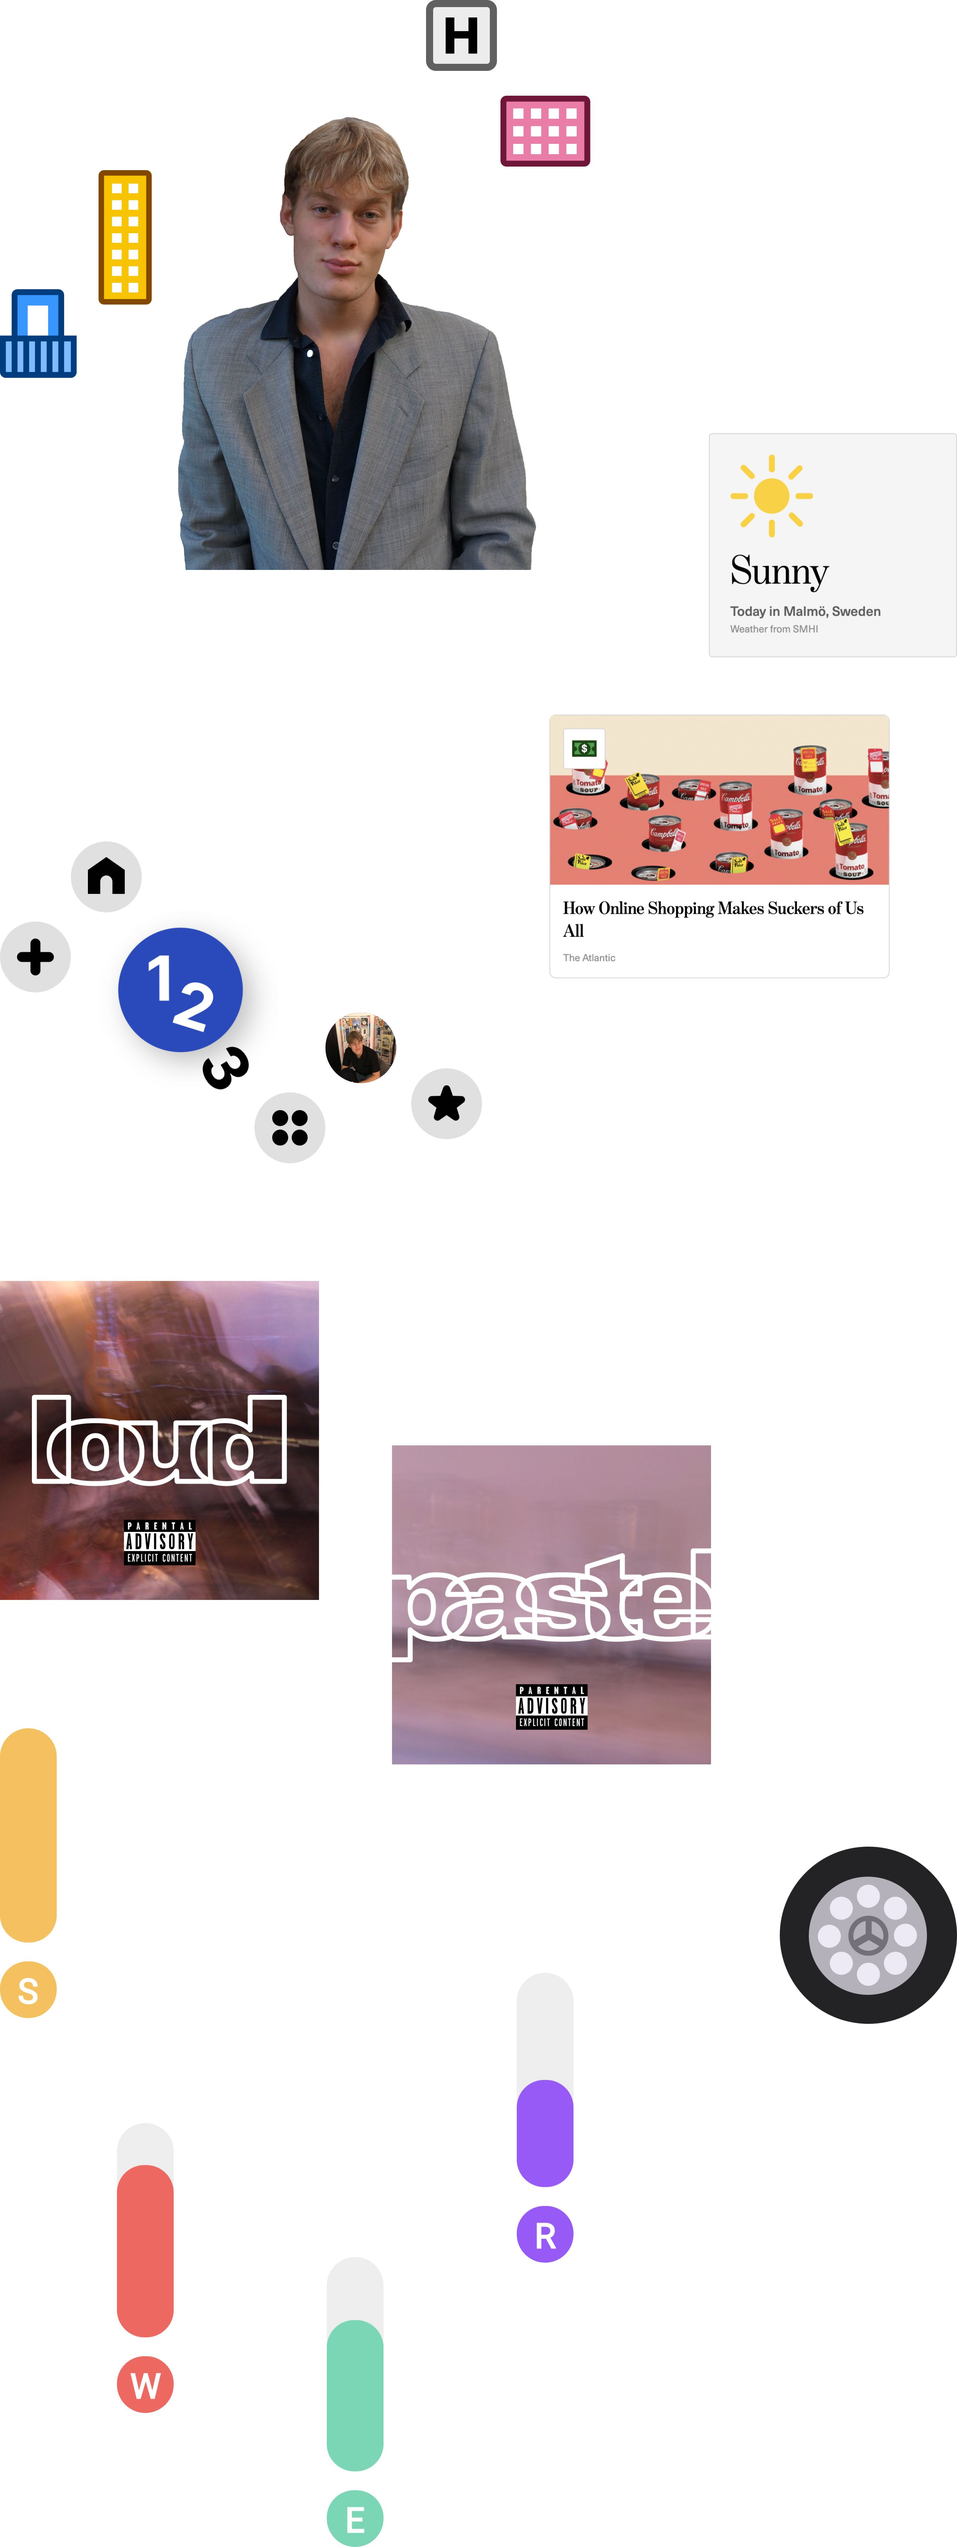
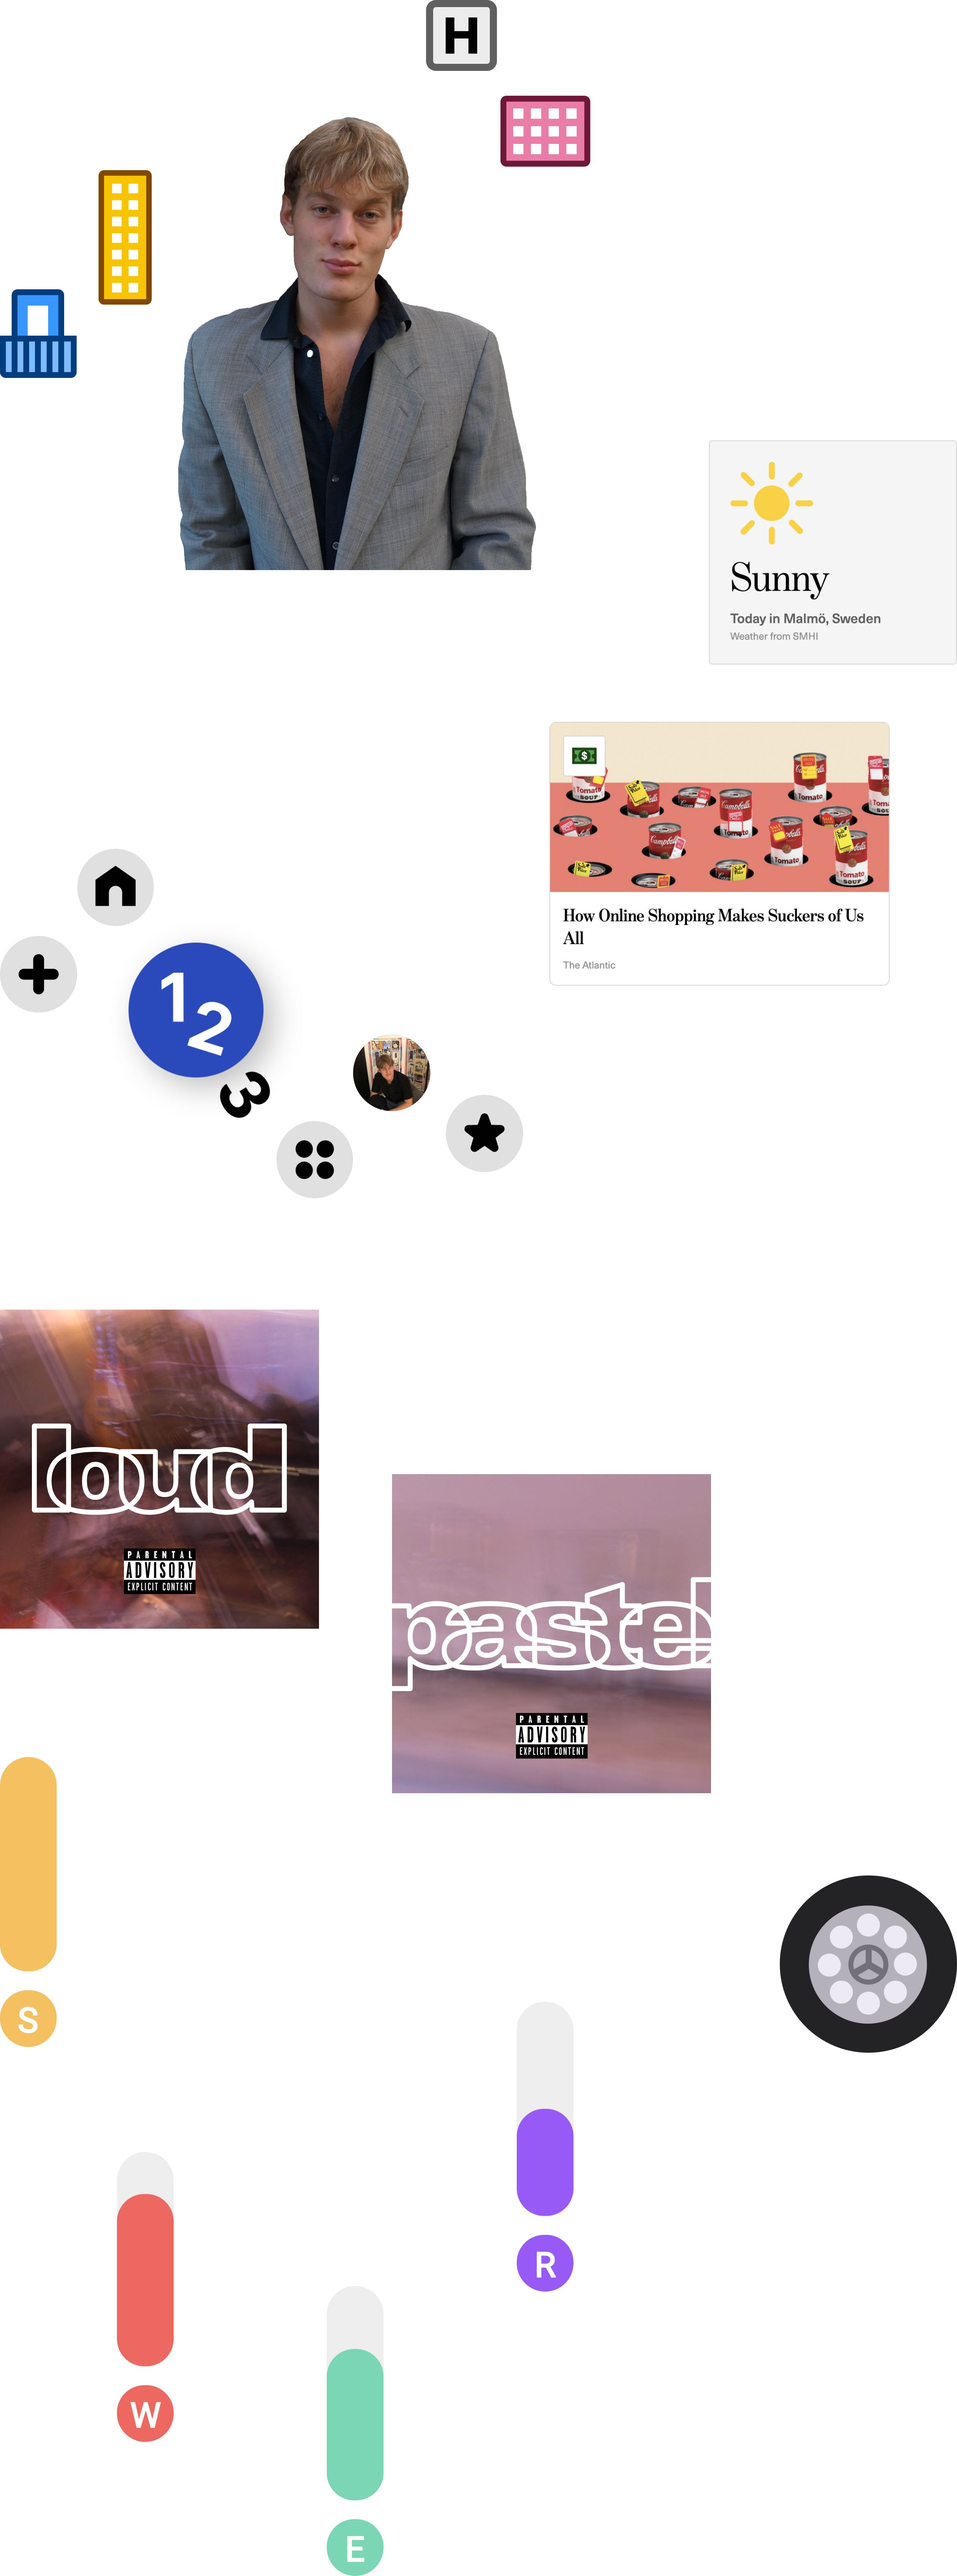
Updates

diff --git a/fall20'/index.html b/fall20'/index.html
@@ -88,17 +88,17 @@
 						<a href='mailto:jacoblundell@hotmail.se' target='_blank' class='introLink' style='color: #E29800; border-bottom: 7px solid #E29800; text-decoration: none;'>Hotmail</a>
 					</h2>
 					
-					<h2 class='mediumTitle introMediumTitle' style='right: 0; top: 1815px;'>
+					<h2 class='mediumTitle introMediumTitle' style='right: 0; top: 1875px;'>
 						Browse my taste<br>on 
 						<a href='https://www.pinterest.se/jacoblundell/aesthetic/' target='_blank' class='introLink' style='color: #E60022; border-bottom: 7px solid #E60022; text-decoration: none;'>Pinterest</a>
 					</h2>
 					
-					<h2 class='mediumTitle introMediumTitle' style='left: 0; top: 2725px;'>
+					<h2 class='mediumTitle introMediumTitle' style='left: 0; top: 2765px;'>
 						Discover more<br>of my taste on<br> 
 						<a href='https://dribbble.com/jacoblundell/likes' target='_blank' class='introLink' style='color: #EA4C89; border-bottom: 7px solid #EA4C89; text-decoration: none;'>Dribbble</a>
 					</h2>
 					
-					<h2 class='mediumTitle introMediumTitle' style='right: 0; top: 3400px;'>
+					<h2 class='mediumTitle introMediumTitle' style='right: 0; top: 3440px;'>
 						Read my 
 						<a href='../cv' class='introLink' style='color: #999999; border-bottom: 7px solid #999999; text-decoration: none; padding-bottom: 3px;'>CV</a>
 					</h2>

diff --git a/cv/index.html b/cv/index.html
@@ -3,7 +3,7 @@
 	<head>
 		<title>CV | Jacob Lundell</title>
 		<link rel='stylesheet' href="../fall20'/style.css">
-		<link rel='stylesheet' href='fonts.css'>
+		<link rel='stylesheet' href="../fall20'/fonts.css">
 		<meta charset="UTF-8">
 		
 		<meta name="viewport" content="width=device-width, initial-scale=0.86, maximum-scale=3.0, minimum-scale=0.86">

diff --git a/fall20'/style.css b/fall20'/style.css
@@ -10,7 +10,7 @@ body	{
 	width: 1350px;
 	margin-top: 100px;
 	pointer-events: none;
-	height: 3593px;
+	height: 3633px;
 }
 
 .smallScaling	{
